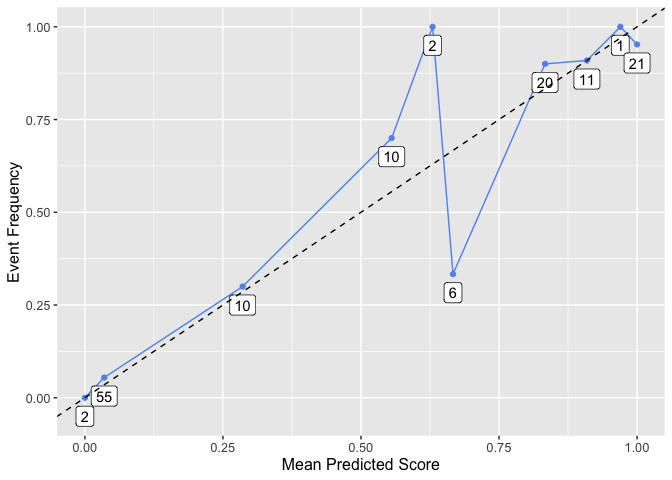
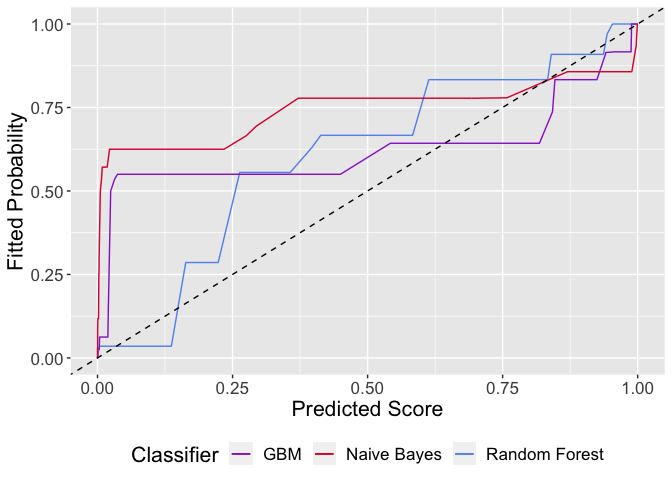
Update R Markdown

diff --git a/Appendix.md b/Appendix.md
@@ -101,10 +101,10 @@ below.
 #### Binning and Counting
 
 ``` r
-rf_bc = bin_func(data = rf_scored, nbins = 10, eqdist = TRUE)
-gbm_bc = bin_func(data = gbm_scored, nbins = 10, eqdist = TRUE)
-nb_bc = bin_func(data = nb_scored, nbins = 10, eqdist = TRUE)
-lr_bc = bin_func(data = lr_scored, nbins = 10, eqdist = TRUE)
+rf_bc = bin_func(data = rf_scored, nbins = 10, eqdist = FALSE)
+gbm_bc = bin_func(data = gbm_scored, nbins = 10, eqdist = FALSE)
+nb_bc = bin_func(data = nb_scored, nbins = 10, eqdist = FALSE)
+lr_bc = bin_func(data = lr_scored, nbins = 10, eqdist = FALSE)
 ```
 
 ``` r
@@ -139,16 +139,41 @@ bc_err = ggplot()+
 ```
 
 ``` r
+rf_bc_alt = bin_func(data = rf_scored, nbins = 10, eqdist = TRUE)
+```
+
+    ## `summarise()` ungrouping output (override with `.groups` argument)
+
+``` r
+bc_bin = ggplot()+
+  geom_point(aes(x = rf_bc$scores_mean, y = rf_bc$label_mean, color = "Evenly Populated"))+
+  geom_line(aes(x = rf_bc$scores_mean, y = rf_bc$label_mean, color = "Evenly Populated"))+
+  geom_point(aes(x = rf_bc_alt$scores_mean, y = rf_bc_alt$label_mean, color = "Evenly Spaced"))+
+  geom_line(aes(x = rf_bc_alt$scores_mean, y = rf_bc_alt$label_mean, color = "Evenly Spaced"))+
+  geom_abline(intercept = 0, slope = 1, linetype="dashed")+
+  xlab("Mean Predicted Score")+
+  ylab("Event Frequency")+
+  theme(legend.position = "bottom", text = element_text(size = 12))+
+  scale_color_manual('Bin Type', values=c("#6495ED", "#D40060"))
+```
+
+``` r
 bc_plot
 ```
 
-![](Appendix_files/figure-gfm/unnamed-chunk-9-1.png)<!-- -->
+![](Appendix_files/figure-gfm/unnamed-chunk-10-1.png)<!-- -->
 
 ``` r
 bc_err
 ```
 
-![](Appendix_files/figure-gfm/unnamed-chunk-9-2.png)<!-- -->
+![](Appendix_files/figure-gfm/unnamed-chunk-10-2.png)<!-- -->
+
+``` r
+bc_bin
+```
+
+![](Appendix_files/figure-gfm/unnamed-chunk-10-3.png)<!-- -->
 
 #### Sigmoid Scaling
 
@@ -175,7 +200,7 @@ sig_plot = ggplot()+
 sig_plot
 ```
 
-![](Appendix_files/figure-gfm/unnamed-chunk-10-1.png)<!-- -->
+![](Appendix_files/figure-gfm/unnamed-chunk-11-1.png)<!-- -->
 
 #### Isotonic Scaling
 
@@ -202,7 +227,7 @@ iso_plot = ggplot()+
 iso_plot
 ```
 
-![](Appendix_files/figure-gfm/unnamed-chunk-11-1.png)<!-- -->
+![](Appendix_files/figure-gfm/unnamed-chunk-12-1.png)<!-- -->
 
 ### Calibration Analysis
 
@@ -276,7 +301,7 @@ ggplot()+
              x = 0.75, y = 0.25, color = "yellow", fill = "black", size = 4)
 ```
 
-![](Appendix_files/figure-gfm/unnamed-chunk-13-1.png)<!-- -->
+![](Appendix_files/figure-gfm/unnamed-chunk-14-1.png)<!-- -->
 
 #### Uncertainty Assessment
 
@@ -319,7 +344,7 @@ ggarrange(reldiag_func(data = rf_scored, position = "diagonal", method = "resamp
           nrow = 2, ncol = 2, common.legend = TRUE)
 ```
 
-![](Appendix_files/figure-gfm/unnamed-chunk-14-1.png)<!-- -->
+![](Appendix_files/figure-gfm/unnamed-chunk-15-1.png)<!-- -->
 
 ## Re-Calibration
 
@@ -407,7 +432,7 @@ ggplot()+
   scale_color_manual('Classifier', values=c('#9932CC', "#DC143C", "#6495ED"))
 ```
 
-![](Appendix_files/figure-gfm/unnamed-chunk-16-1.png)<!-- --> Having a
+![](Appendix_files/figure-gfm/unnamed-chunk-17-1.png)<!-- --> Having a
 closer look into the calibration of test scores from a Random Forest
 classification model together with an isotonic calibration model are
 analysed using binning and counting. Since there are only ten unique
@@ -425,14 +450,14 @@ rf_test %>%
   ggplot()+
   geom_point(aes(x = prob_disc, y = label_mean), col="#6495ED")+
   geom_line(aes(x = prob_disc, y = label_mean), col="#6495ED")+
-  geom_label(aes(x = prob_disc, y = label_mean, label = count), nudge_y = -0.05)+
+  geom_label(aes(x = prob_disc, y = label_mean, label = count), nudge_y = -0.02, nudge_x = 0.02)+
   geom_abline(intercept = 0, slope = 1, linetype="dashed")+
   xlab("Mean Predicted Score")+
   ylab("Event Frequency")+
   theme(legend.position = "bottom", text = element_text(size = 12))
 ```
 
-![](Appendix_files/figure-gfm/unnamed-chunk-17-1.png)<!-- -->
+![](Appendix_files/figure-gfm/unnamed-chunk-18-1.png)<!-- -->
 
 ### Cross-Validation
 
@@ -458,7 +483,7 @@ id = id[1:nrow(train_df_cv)]
 hist(id)
 ```
 
-![](Appendix_files/figure-gfm/unnamed-chunk-18-1.png)<!-- -->
+![](Appendix_files/figure-gfm/unnamed-chunk-19-1.png)<!-- -->
 
 ``` r
 train_cv = cbind(train_df_cv, id)
@@ -542,7 +567,7 @@ ggplot()+
   scale_color_manual('Classifier', values=c('#9932CC', "#DC143C", "#6495ED"))
 ```
 
-![](Appendix_files/figure-gfm/unnamed-chunk-20-1.png)<!-- -->
+![](Appendix_files/figure-gfm/unnamed-chunk-21-1.png)<!-- -->
 
 ### Comparison
 
@@ -565,15 +590,15 @@ more unique probability estimates for the test set observations.
 ggplot()+
   geom_line(aes(x = rf_test_cv_result$scores_uncal, y = rf_test_cv_result$probs_iso, color = "Cross-Validation"), size=1.1)+
   geom_line(aes(x = rf_test$scores_uncal, y = rf_test$probs_iso, color = "Simple Split"), size=1.1)+
-  geom_point(aes(x = rf_test$scores_uncal, y = rf_test$label), color = "#7a8b8b")+
-  geom_abline(intercept = 0, slope = 1, linetype="dashed")+
+  #geom_point(aes(x = rf_test$scores_uncal, y = rf_test$label), color = "#7a8b8b")+
+  #geom_abline(intercept = 0, slope = 1, linetype="dashed")+
   xlab("Not-calibrated Score")+
   ylab("Calibrated Score")+
   theme(legend.position = "bottom", text = element_text(size = 16))+
   scale_color_manual('Re-Calibration Method', values=c("#2a5a83", "#ff700f"))
 ```
 
-![](Appendix_files/figure-gfm/unnamed-chunk-21-1.png)<!-- -->
+![](Appendix_files/figure-gfm/unnamed-chunk-22-1.png)<!-- -->
 
 Using the CORP procedure to analyse the calibration performance of the
 productive probability estimates, we see an improvement of the
@@ -631,7 +656,7 @@ ggplot()+
     ylab("Fitted Probability")
 ```
 
-![](Appendix_files/figure-gfm/unnamed-chunk-22-1.png)<!-- -->
+![](Appendix_files/figure-gfm/unnamed-chunk-23-1.png)<!-- -->
 
 ``` r
 # ROC comparison
@@ -653,7 +678,7 @@ ggplot()+
              x = 0.75, y = 0.25, color = "yellow", fill = "black", size = 4)
 ```
 
-![](Appendix_files/figure-gfm/unnamed-chunk-22-2.png)<!-- -->
+![](Appendix_files/figure-gfm/unnamed-chunk-23-2.png)<!-- -->
 
 ## Optimization
 
@@ -820,7 +845,7 @@ system.time({
     ## Best of gen:  0.004098251 Params:  1 315 11
 
     ##    user  system elapsed 
-    ##  20.460   2.062  13.831
+    ##  21.496   2.027  14.496
 
 Optimizing on maximum Discrimination
 
@@ -845,7 +870,7 @@ gen_res_rf = GeneticAlg.int(genomeLen = 3, genomeMin = c(1, 50, 1), genomeMax = 
     ## Best of gen:  -0.1640125 Params:  4 402 14
 
     ##    user  system elapsed 
-    ##  21.950   2.027  14.756
+    ##  22.794   2.052  15.454
 
 <!-- #### Sigmoid Scaling -->
 <!-- ```{r} -->
